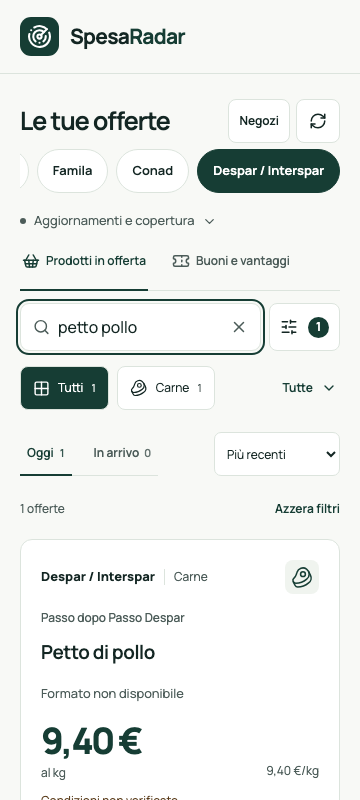
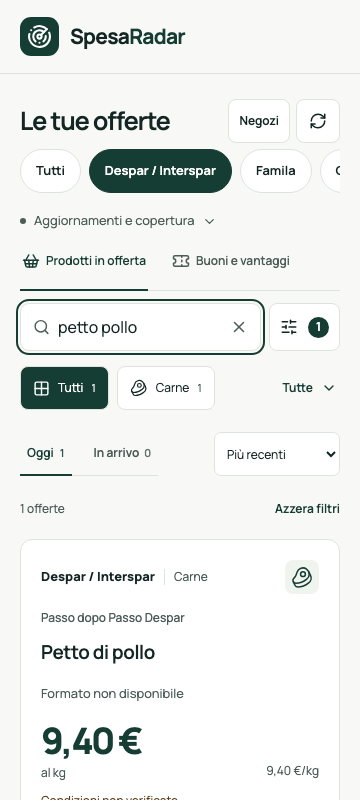
Record verified six-retailer public rollout [skip ci]

Changed region(s): [[0.0917, 0.1875, 0.9472, 0.25]]

diff --git a/docs/verification.md b/docs/verification.md
@@ -179,3 +179,11 @@ Revisione separata del codice: corretti filtro CAP nelle opzioni sede, prezzo un
 Sigma Carpi resta non acquisito: il percorso del localizzatore osservato richiede una destinazione vietata da robots; nessun invio eseguito a quella destinazione. Coop Carpi resta non acquisito dopo il 403 del servizio catalogo già documentato. Lo scouting di alternative ufficiali non ha verificato un volantino corrente indipendente per questi due casi. Il rilascio resta parziale e non dichiara queste insegne come funzionanti. Dettagli e limiti di riuso in [source-audit.md](source-audit.md).
 
 Ricostruzione finale `docker compose up --build -d` riuscita: migrazioni exit 0, API healthy, worker e web avviati su loopback. `npm --prefix apps/web run test:e2e`: **9 passati in 8,7 s** sulla build finale. Il primo controllo dopo lo spostamento dei filtri usava ancora il selettore CSS della vecchia riga duplicata; aggiornato il test alla regione accessibile «Filtra per supermercato» e ripetuta tutta la suite. Nessun errore console o overflow nei percorsi verificati; controlli Axe superati, senza implicare una certificazione completa di accessibilità.
+
+### Pubblicazione pubblica verificata
+
+[Run 34213224269](https://github.com/KilluaZoldich/spesaradar/actions/runs/34213224269) riuscito sul commit `8b1dc6f`. Il runner Ubuntu ha raccolto **175 offerte Interspar** in 74,22 s con 25 richieste e **130 offerte Famila** in 12,62 s con 4 richieste. Le altre fonti hanno riusato la cache. Lo snapshot pubblico delle 10:03:18 UTC contiene 1160 record per ambito e sei insegne: Lidl, Eurospin, MD, Conad, Despar/Interspar, Famila. MD resta la sede Milano verificata in precedenza, non viene presentato come negozio di Carpi.
+
+Confronto di tutti i 305 nuovi record pubblicati con quelli verificati localmente: stessi ID, titolo, prezzo/base, formato, condizioni, date, categoria, tag, fonte e ambito; zero record mancanti o differenze nei campi confrontati. Questo controllo confronta le due estrazioni; la verifica contro le fonti è il campione manuale descritto sopra.
+
+`PAGES_TEST_URL=https://killuazoldich.github.io/spesaradar/ npm --prefix apps/web run test:pages`: **6 passati in 9,1 s** sul sito pubblico HTTPS, inclusi i nuovi supermercati, il cambio sede Conad, ricerca CAP 41012, persistenza delle selezioni, categorie, prezzi, dettaglio PDF, controlli Axe e assenza di overflow a 360 px. Screenshot pubblici aggiornati e aperti per ispezione visiva: [Interspar mobile](despar-mobile.png), [selezione per insegna](selection-one-brand-mobile.png). [Metadati e confronto](six-retailer-deployment.json), [report browser](pages-e2e-results.json).
